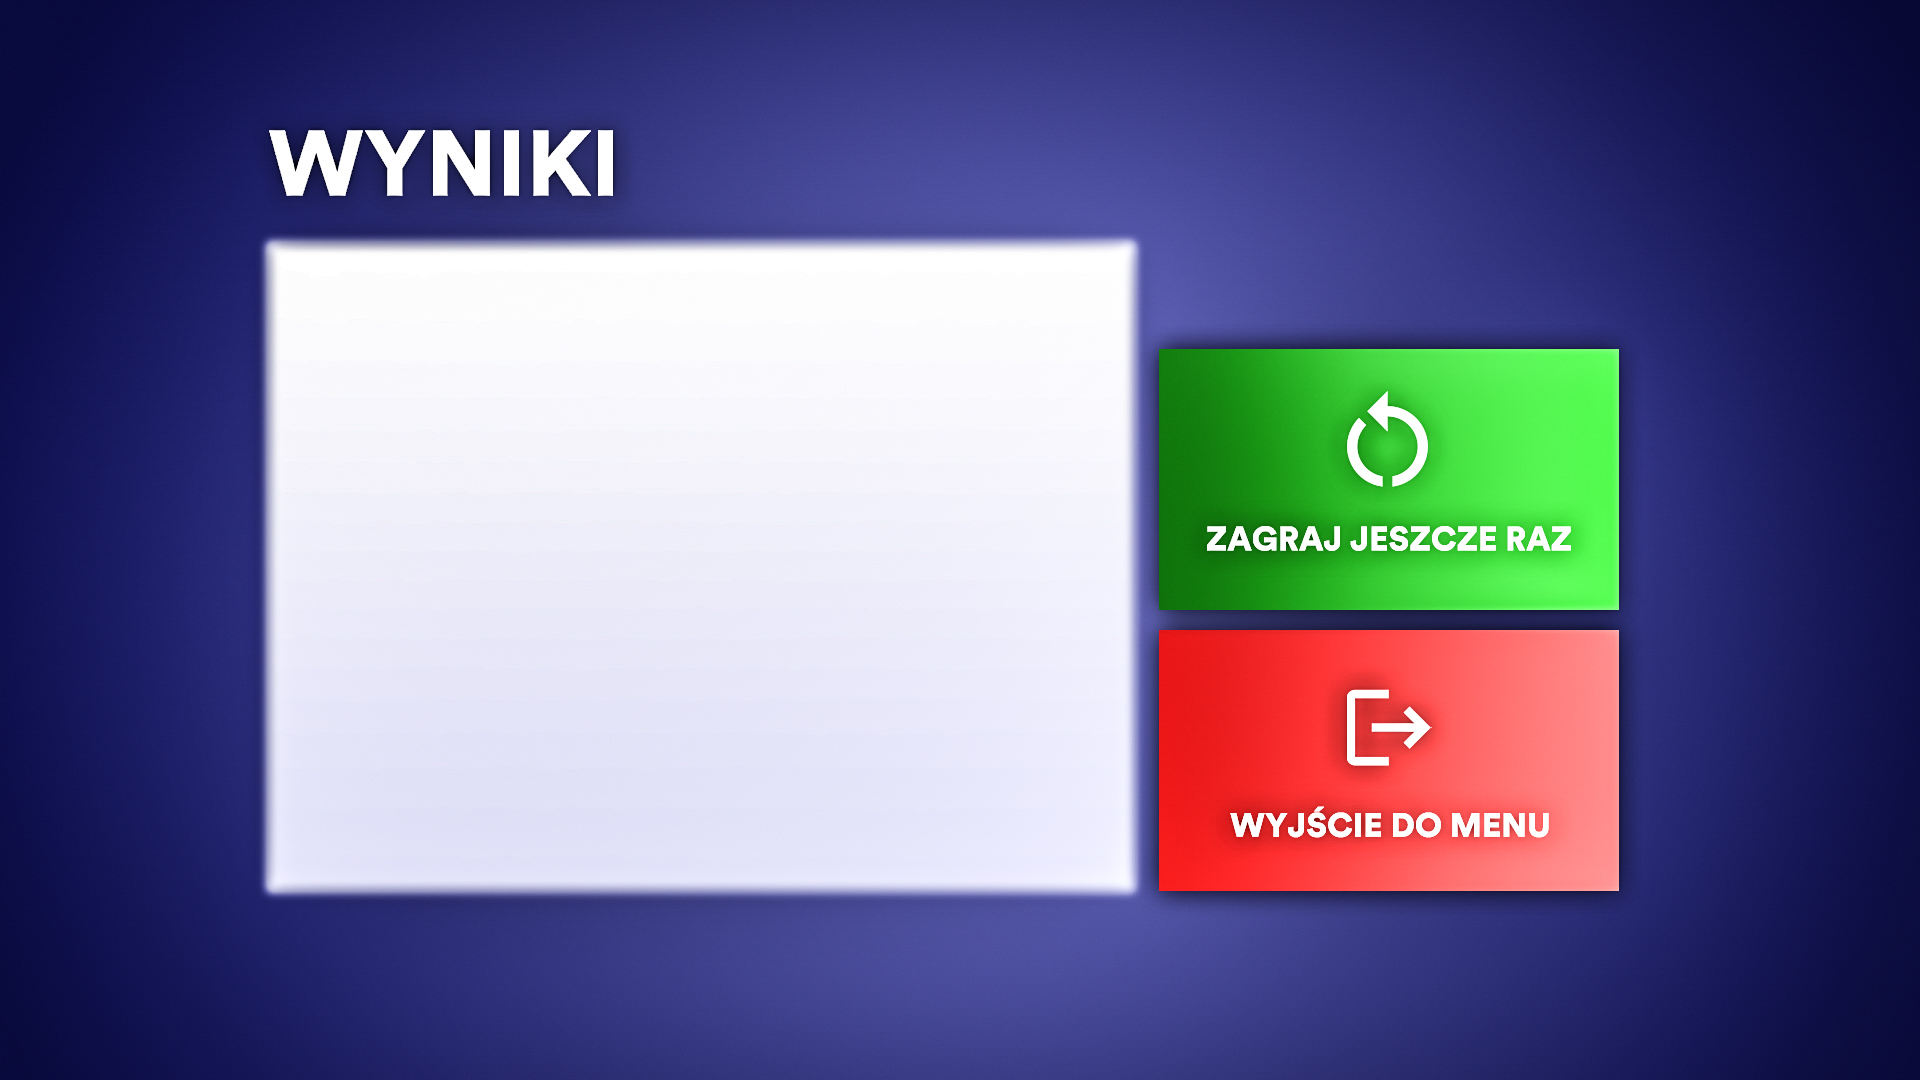
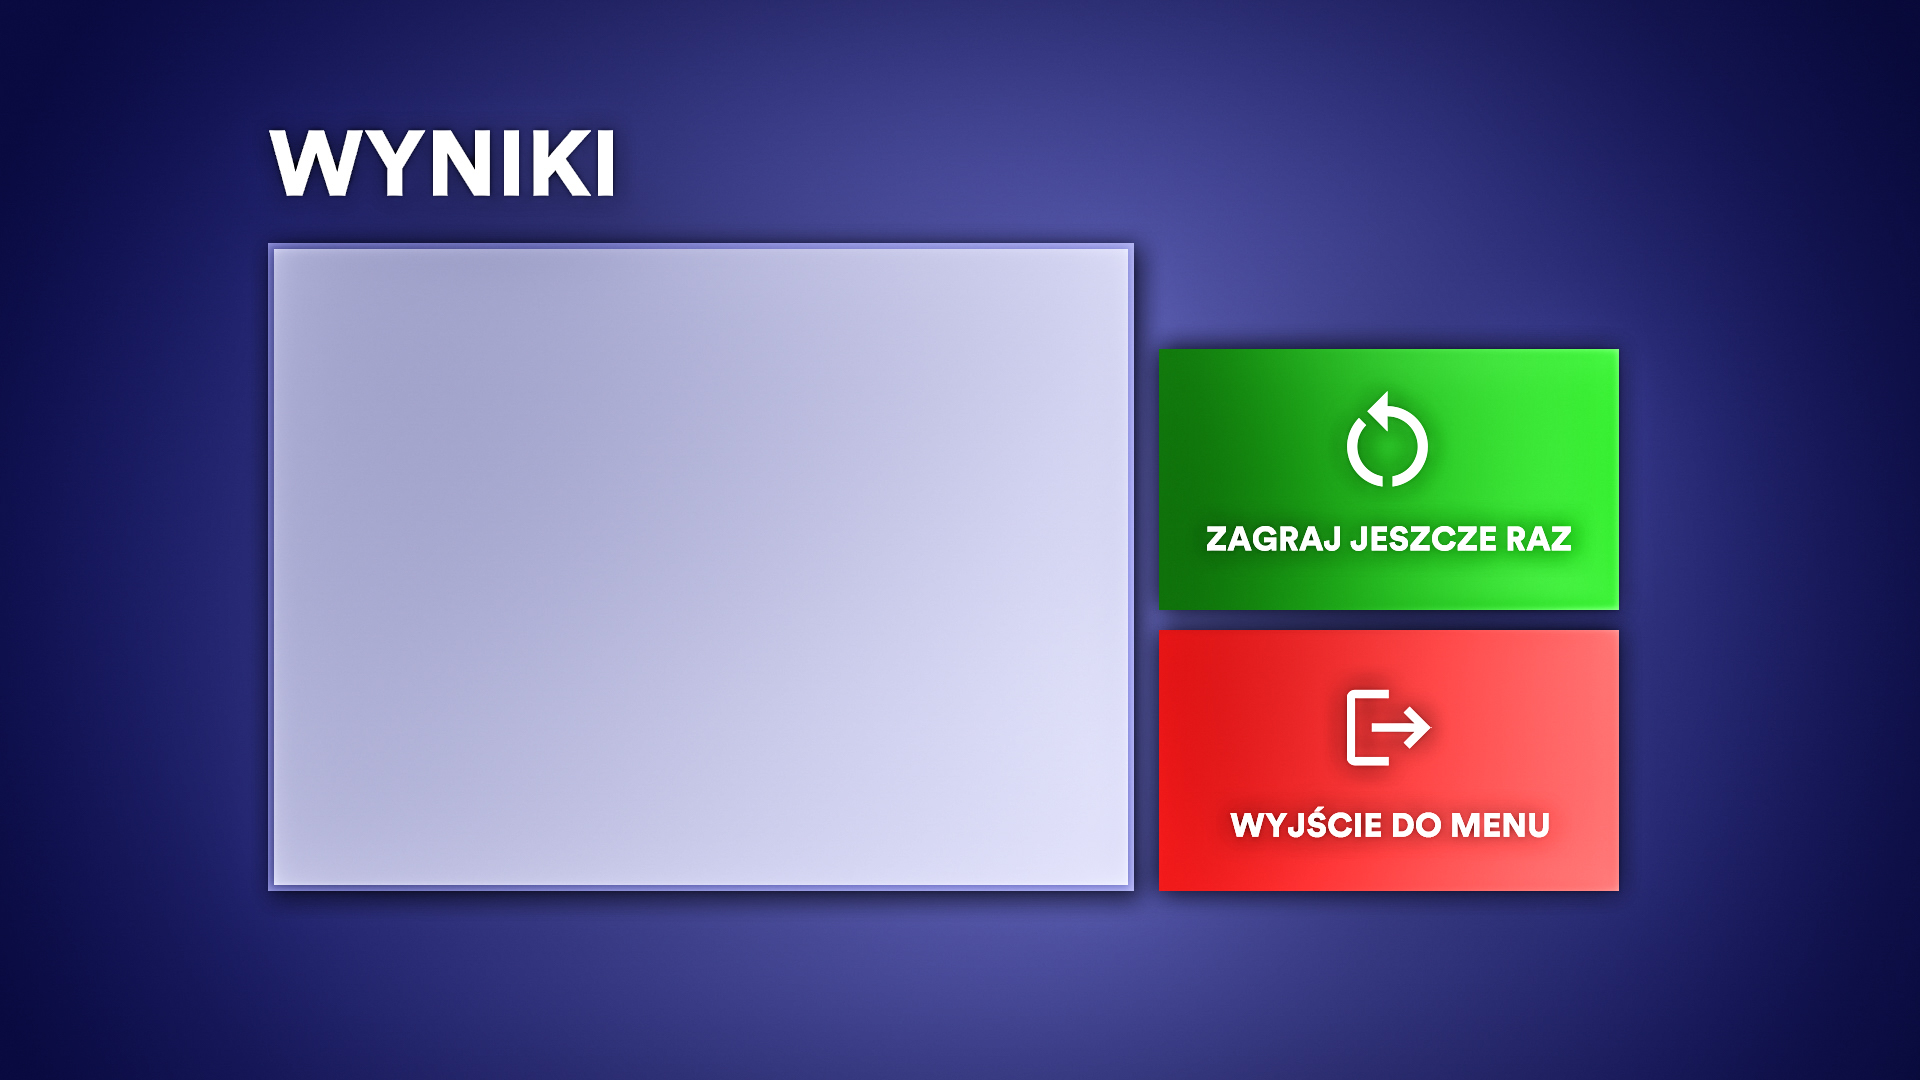
singlepayer done

Changed region(s): [[0.125, 0.2139, 0.625, 0.8556], [0.7188, 0.3056, 0.8438, 0.825]]

diff --git a/QUIZZ_C_GAME/main_menu_handler.h b/QUIZZ_C_GAME/main_menu_handler.h
@@ -1,7 +1,7 @@
 #pragma once
 #include "check_event_click.h"
 
-/*This function is responsible for singleplayer_forwarding to appropriate functions which serves game modes*/
+/* This function is responsible for singleplayer_forwarding to appropriate functions which serves game modes */
 int singleplayer_forwarding(const int check_returned, ALLEGRO_TIMER** timer, ALLEGRO_DISPLAY** display,
 	ALLEGRO_EVENT_QUEUE** queue, ALLEGRO_FONT** font, ALLEGRO_BITMAP** main_menu,
 	ALLEGRO_BITMAP** game_mode_menu, ALLEGRO_BITMAP** menu_interface, ALLEGRO_BITMAP** scoreBoard,
@@ -9,28 +9,31 @@ int singleplayer_forwarding(const int check_returned, ALLEGRO_TIMER** timer, ALL
 {
 	switch (check_returned)
 	{
-	case 1: // jednoosobowy
+	case 1: /* Singleplayer */
 		al_draw_bitmap(*game_mode_menu, 0, 0, 0);
 		al_flip_display();
 	break;
-	case 2:
+	case 2: /* Multiplayer */
 		printf(" wieloosobowy ");
 	break;
-	case 3:
+	case 3: /* Add Question*/
 		printf(" dodaj pytanie ");
 	break;
-	case 4:
+	case 4: /* Exit Game */
 		printf(" wyjscie ");
 	break;
-	case 5: //trening
+	case 5: /* Trening */
 			singleplayer_trening(timer, display, queue, font, main_menu,
 			game_mode_menu, menu_interface, scoreBoard, resolution_x, resolution_y, FPS, which_menu);
 	break;
-	case 6:
+	case 6: /* 3 Lifes */
 		printf(" 3 zycia ");
 	break;
-	case 7:
+	case 7: /* Hardcore */
 		printf(" hardcore ");
+	break;
+	case 12:
+		return 12;
 	break;
 	}
 }
@@ -51,22 +54,22 @@ int listener_menu(ALLEGRO_TIMER** timer, ALLEGRO_DISPLAY** display,
 		al_wait_for_event(*queue, &event);
 		switch (event.type)
 		{
-			/*on click event*/
+			/* on click event */
 		case ALLEGRO_EVENT_MOUSE_BUTTON_UP:
 			mouse_x = event.mouse.x;
 			mouse_y = event.mouse.y;
 			check_returned = check_event_click(&mouse_x, &mouse_y, which_menu);
 			printf("%d", check_returned);
-			/*Below check is for single player function which has permission to call listener
-			function as her own.*/
+			/* Below check is for single player function which has permission to call listener
+			function as her own. */
 			if (check_returned >= 8 && check_returned <= 11) return check_returned;
 
-			/*here will be next statements for next game modes*/
-			
-			/*Bellow if statement check if listener has been called from init_menu*/
+			/* here will be next statements for next game modes */
+			if (check_returned == 0) return 0;
+			/* Bellow if statement check if listener has been called from init_menu */
 			if (*singleplayer) {
-				singleplayer_forwarding(check_returned, timer, display, queue, font, main_menu,
-					game_mode_menu, menu_interface, scoreBoard, resolution_x, resolution_y, FPS, which_menu);
+				if (singleplayer_forwarding(check_returned, timer, display, queue, font, main_menu,
+					game_mode_menu, menu_interface, scoreBoard, resolution_x, resolution_y, FPS, which_menu)==12)return 1;
 			}
 			break;
 		case ALLEGRO_EVENT_DISPLAY_CLOSE:
@@ -78,17 +81,23 @@ int listener_menu(ALLEGRO_TIMER** timer, ALLEGRO_DISPLAY** display,
 	}	
 }
 
-bool init_menu(ALLEGRO_TIMER** timer, ALLEGRO_DISPLAY** display, ALLEGRO_EVENT_QUEUE** queue,
+void init_menu(ALLEGRO_TIMER** timer, ALLEGRO_DISPLAY** display, ALLEGRO_EVENT_QUEUE** queue,
 	ALLEGRO_FONT** font, ALLEGRO_BITMAP** main_menu, ALLEGRO_BITMAP** game_mode_menu,
 	ALLEGRO_BITMAP** menu_interface, ALLEGRO_BITMAP** scoreBoard,
 	unsigned int* resolution_x, unsigned int* resolution_y, const float* FPS)
 {
-	bool singleplayer=true;
+	int a;
+	bool singleplayer = true;
 	int which_menu = 1;
 	al_draw_bitmap(*main_menu, 0, 0, 0);
 	al_flip_display();
-	listener_menu(timer, display, queue, font, main_menu, 
-		game_mode_menu, menu_interface, scoreBoard, resolution_x, resolution_y, 
-		FPS, &which_menu,&singleplayer);
+	if ((a=listener_menu(timer, display, queue, font, main_menu,
+		game_mode_menu, menu_interface, scoreBoard, resolution_x, resolution_y,
+		FPS, &which_menu, &singleplayer)) == 0) {
+		init_menu(timer, display, queue, font, main_menu,
+			game_mode_menu, menu_interface, scoreBoard, resolution_x, resolution_y,
+			FPS);
+		return;
+	}
+		return;
 }
-

diff --git a/QUIZZ_C_GAME/check_event_click.h b/QUIZZ_C_GAME/check_event_click.h
@@ -3,25 +3,31 @@ int check_event_click(unsigned int* mouse_x, unsigned int* mouse_y, int* which_m
 {
 	if ((*which_menu) == 1)
 	{
-		//main menu
-		if (((*mouse_x >= 294) && (*mouse_x <= 782)) && ((*mouse_y >= 395) && (*mouse_y <= 607))) { (*which_menu) = 2; return 1; } // jednoosobowy
-		if (((*mouse_x >= 294) && (*mouse_x <= 782)) && ((*mouse_y >= 635) && (*mouse_y <= 847))) return 2; // wieloosobowy
-		if (((*mouse_x >= 813) && (*mouse_x <= 1129)) && ((*mouse_y >= 396) && (*mouse_y <= 847))) return 3; // dodaj pytanie
-		if (((*mouse_x >= 1159) && (*mouse_x <= 1619)) && ((*mouse_y >= 586) && (*mouse_y <= 847))) return 4; // wyjscie
+		/* Main menu */
+		if (((*mouse_x >= 294) && (*mouse_x <= 782)) && ((*mouse_y >= 395) && (*mouse_y <= 607))) { (*which_menu) = 2; return 1; } // singleplayer
+		if (((*mouse_x >= 294) && (*mouse_x <= 782)) && ((*mouse_y >= 635) && (*mouse_y <= 847))) return 2; // multiplayer
+		if (((*mouse_x >= 813) && (*mouse_x <= 1129)) && ((*mouse_y >= 396) && (*mouse_y <= 847))) return 3; // add question
+		if (((*mouse_x >= 1159) && (*mouse_x <= 1619)) && ((*mouse_y >= 586) && (*mouse_y <= 847))) return 12; // leave game
 	}
 	if ((*which_menu) == 2)
 	{
-		//game mode menu 
+		/* Game mode menu */
 		if (((*mouse_x >= 444) && (*mouse_x <= 1476)) && ((*mouse_y >= 305) && (*mouse_y <= 484))) { (*which_menu) = 3; return 5; } // trening
-		if (((*mouse_x >= 444) && (*mouse_x <= 1476)) && ((*mouse_y >= 520) && (*mouse_y <= 699))) return 6;  // 3 zycia
+		if (((*mouse_x >= 444) && (*mouse_x <= 1476)) && ((*mouse_y >= 520) && (*mouse_y <= 699))) return 6;  // 3 lifes
 		if (((*mouse_x >= 444) && (*mouse_x <= 1476)) && ((*mouse_y >= 735) && (*mouse_y <= 914))) return 7; // hardcore
 	}
 	if ((*which_menu) == 3)
 	{
-		//menu_interface 
-		if (((*mouse_x >= 306) && (*mouse_x <= 1614)) && ((*mouse_y >= 404) && (*mouse_y <= 538))) return 8; // odpowiedz a
-		if (((*mouse_x >= 306) && (*mouse_x <= 1614)) && ((*mouse_y >= 555) && (*mouse_y <= 689))) return 9;  // odpowiedz b
-		if (((*mouse_x >= 306) && (*mouse_x <= 1614)) && ((*mouse_y >= 707) && (*mouse_y <= 841))) return 10; // odpowiedz c
-		if (((*mouse_x >= 306) && (*mouse_x <= 1614)) && ((*mouse_y >= 859) && (*mouse_y <= 993))) return 11; // odpowiedz d
+		/* Menu Interface */
+		if (((*mouse_x >= 306) && (*mouse_x <= 1614)) && ((*mouse_y >= 404) && (*mouse_y <= 538))) return 8; // ans a
+		if (((*mouse_x >= 306) && (*mouse_x <= 1614)) && ((*mouse_y >= 555) && (*mouse_y <= 689))) return 9;  // ans b
+		if (((*mouse_x >= 306) && (*mouse_x <= 1614)) && ((*mouse_y >= 707) && (*mouse_y <= 841))) return 10; // ans c
+		if (((*mouse_x >= 306) && (*mouse_x <= 1614)) && ((*mouse_y >= 859) && (*mouse_y <= 993))) return 11; // ans d
+	}
+	if ((*which_menu) == 4)
+	{
+		/* Scoreboard */
+		if (((*mouse_x >= 1159) && (*mouse_x <= 1619)) && ((*mouse_y >= 349) && (*mouse_y <= 610))) { (*which_menu) = 2; return 1; } // play again
+		if (((*mouse_x >= 1159) && (*mouse_x <= 1619)) && ((*mouse_y >= 630) && (*mouse_y <= 891))) { (*which_menu) = 1; return 0; } // exit to main menu
 	}
 }

diff --git a/QUIZZ_C_GAME/singleplayer_training.h b/QUIZZ_C_GAME/singleplayer_training.h
@@ -4,6 +4,8 @@ int listener_menu(ALLEGRO_TIMER** timer, ALLEGRO_DISPLAY** display,
 	ALLEGRO_BITMAP** game_mode_menu, ALLEGRO_BITMAP** menu_interface, ALLEGRO_BITMAP** scoreBoard,
 	unsigned int* resolution_x, unsigned int* resolution_y, const float* FPS, int* which_menu, bool* singleplayer);
 
+void print_score_singlepalyer(ALLEGRO_FONT** font, int ptk);
+
 void singleplayer_trening(ALLEGRO_TIMER** timer, ALLEGRO_DISPLAY** display,
 	ALLEGRO_EVENT_QUEUE** queue, ALLEGRO_FONT** font, ALLEGRO_BITMAP** main_menu,
 	ALLEGRO_BITMAP** game_mode_menu, ALLEGRO_BITMAP** menu_interface, ALLEGRO_BITMAP** scoreBoard,
@@ -14,16 +16,14 @@ void singleplayer_trening(ALLEGRO_TIMER** timer, ALLEGRO_DISPLAY** display,
 	ALLEGRO_COLOR color = al_map_rgb(255, 255, 255);
 
 	p_questions cp_head = head_of_questions;
-
+	
 	int ptk = 0;
 	char tmp_int_char[10];
 	int returned_from_list = 0;
 	int correct_ans = 0;
 	int aling_up = 15;
-	while (cp_head->next) {
-
-		char tmp_poit_container[100] = { "PUNKTY: " };
-
+	while (cp_head->next) 
+	{
 
 		string_typewriter(font, cp_head->question, 24, 1308, 216, *resolution_x / 2 , 140, 60);
 		al_flip_display();
@@ -36,6 +36,7 @@ void singleplayer_trening(ALLEGRO_TIMER** timer, ALLEGRO_DISPLAY** display,
 		string_typewriter(font, cp_head->answer_d, 24, 1308, 134, *resolution_x / 2, 859, 45);
 		al_flip_display();
 
+		char tmp_poit_container[50] = { "PUNKTY: " };
 		al_draw_text(*font, color, 1450, 100,
 			ALLEGRO_ALIGN_CENTER, strcat(tmp_poit_container, itoa(ptk, tmp_int_char, 10)));
 
@@ -80,5 +81,19 @@ void singleplayer_trening(ALLEGRO_TIMER** timer, ALLEGRO_DISPLAY** display,
 	}
 	al_draw_bitmap(*scoreBoard, 0, 0, 0);
 	al_flip_display();
-	/*here add function which will draw score on score board it should take ptk variable and draw it*/
+	print_score_singlepalyer(font, ptk);
+	(*which_menu) = 4;
+}
+
+void print_score_singlepalyer(ALLEGRO_FONT** font, int ptk)
+{
+	ALLEGRO_COLOR color_white = al_map_rgb(255, 255, 255);
+	*font = al_load_font("spotify_circular.ttf", 60, 1);
+	char tmp_poit_container[50] = { "ZDOBYTE PUNKTY: " };
+	char tmp_int_char[10];
+	al_draw_text(*font, color_white, 339, 311,
+	ALLEGRO_ALIGN_LEFT, strcat(tmp_poit_container, itoa(ptk, tmp_int_char, 10)));
+	al_flip_display();
+	*font = al_load_font("spotify_circular.ttf", 30, 1);
+
 }

diff --git a/QUIZZ_C_GAME/string_typewriter.h b/QUIZZ_C_GAME/string_typewriter.h
@@ -6,7 +6,7 @@ void string_typewriter(ALLEGRO_FONT** font, char* string, int font_size,
 	bool flag = true;
 
 	/*allegro color*/
-	ALLEGRO_COLOR color = al_map_rgb(255, 255, 255);
+	ALLEGRO_COLOR color_white = al_map_rgb(255, 255, 255);
 
 	pos_y += margin_up;
 
@@ -19,7 +19,7 @@ void string_typewriter(ALLEGRO_FONT** font, char* string, int font_size,
 		if (flag)
 		{
 			strncpy(tmp_str, string, char_per_line);
-			al_draw_text(*font, color, pos_x, pos_y - (font_size / 2),
+			al_draw_text(*font, color_white , pos_x, pos_y - (font_size / 2),
 				ALLEGRO_ALIGN_CENTER, tmp_str);
 			pos_y += font_size + 5;
 
@@ -27,7 +27,7 @@ void string_typewriter(ALLEGRO_FONT** font, char* string, int font_size,
 		else
 		{
 			strncpy(tmp_str, string, char_per_line);
-			al_draw_text(*font, color, pos_x, pos_y - font_size / 2,
+			al_draw_text(*font, color_white , pos_x, pos_y - font_size / 2,
 				ALLEGRO_ALIGN_CENTER, tmp_str);
 			break;
 		}

diff --git a/QUIZZ_C_GAME/main.c b/QUIZZ_C_GAME/main.c
@@ -17,7 +17,8 @@ unsigned int resolution_y = 1080;
 // ____FUNCTION SECTION____ //
 
 
-int main() {
+int main() 
+{
     ALLEGRO_TIMER* timer = NULL;
     ALLEGRO_EVENT_QUEUE* queue = NULL;
     ALLEGRO_DISPLAY* display = NULL;
@@ -32,7 +33,7 @@ int main() {
     scan_file();
 	init_menu(&timer, &display, &queue, &font, &main_menu, &game_mode_menu, &menu_interface, &scoreBoard, &resolution_x, &resolution_y, &FPS);
    
-    al_rest(15.0);
+   // al_rest(15.0);
     al_destroy_font(font);
     al_destroy_bitmap(main_menu);
     al_destroy_bitmap(game_mode_menu);
